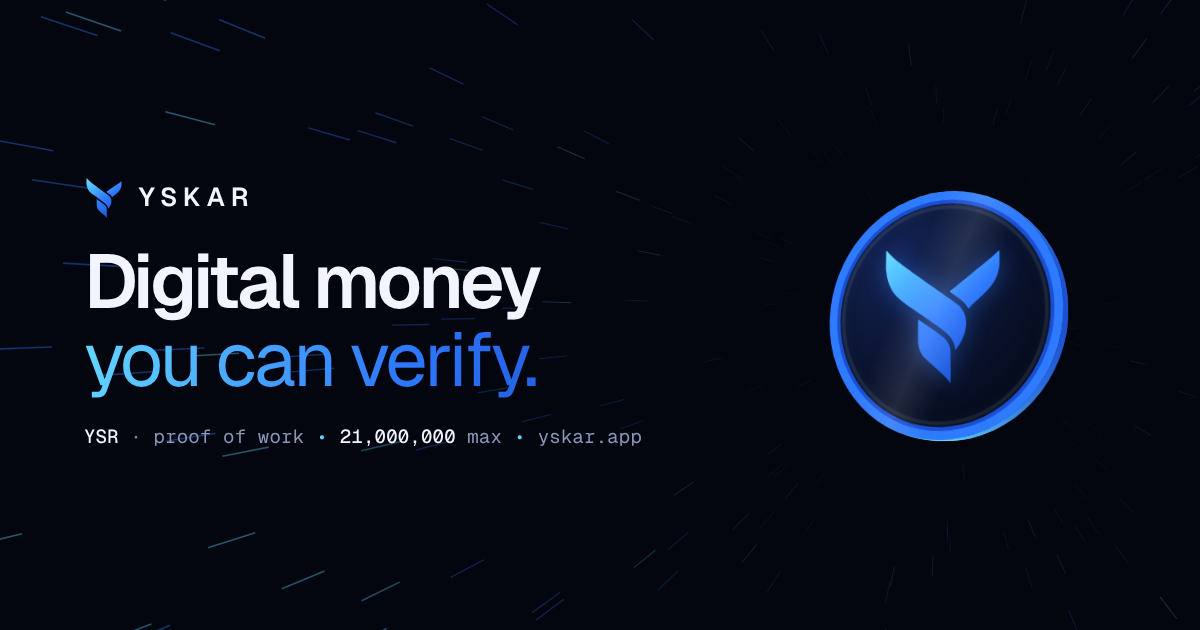
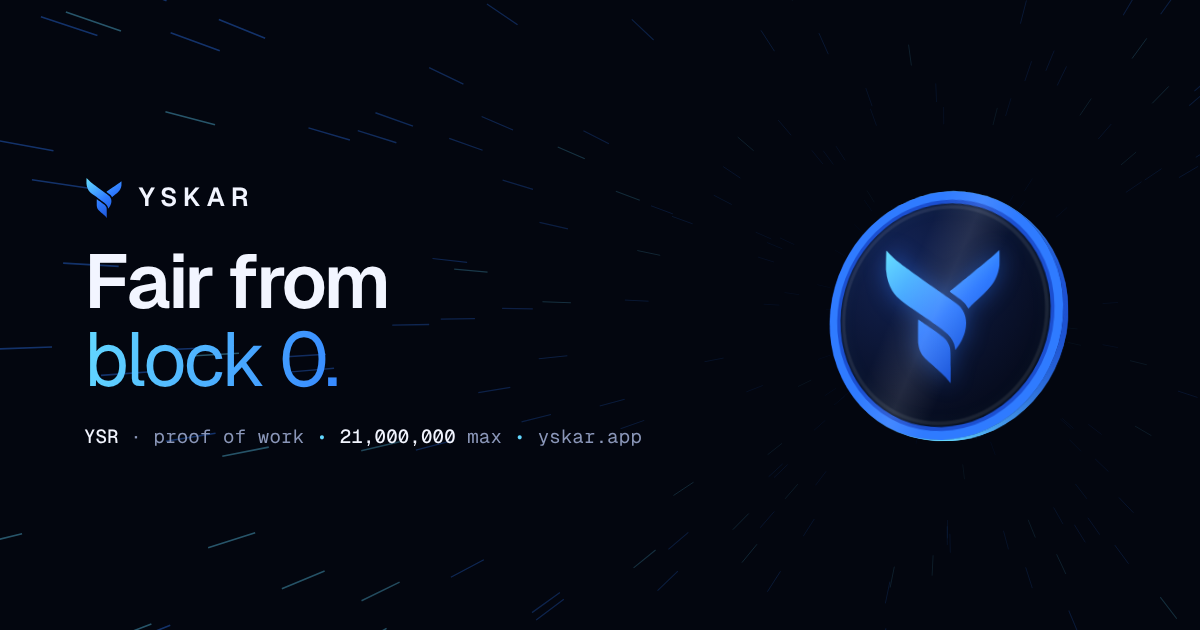
Website: Einstieg 'YSKAR – Fair von Block 0 an.'
Ueberschrift, Einleitung, Seitentitel, Beschreibung und Vorschaubild neu;
Ueberschrift etwas kleiner, damit sie die Muenze nicht beruehrt.

Changed region(s): [[0.0617, 0.3921, 0.4625, 0.6333]]

diff --git a/website/index.html b/website/index.html
@@ -3,35 +3,35 @@
 <head>
 <meta charset="utf-8">
 <meta name="viewport" content="width=device-width, initial-scale=1, viewport-fit=cover">
-<title>YSKAR – Digital money you can verify.</title>
-<meta name="description" content="YSKAR (YSR) is an independent cryptocurrency with a proof-of-work blockchain of its own. Send and keep YSR with 12 words. 21 million at most, nothing allocated in advance, every block open to check.">
+<title>YSKAR – Fair from block 0.</title>
+<meta name="description" content="YSKAR (YSR) is a cryptocurrency with a blockchain of its own. Nothing was handed out in advance, early YSR were burned to offset the head start. Mine with your phone or PC and check every block yourself.">
 <meta name="theme-color" content="#03060F">
 <meta property="og:type" content="website">
 <meta property="og:site_name" content="YSKAR">
 <meta property="og:title" content="YSKAR">
-<meta property="og:description" content="Digital money you can verify. An independent cryptocurrency with a proof-of-work blockchain of its own.">
+<meta property="og:description" content="Fair from block 0. A cryptocurrency with a blockchain of its own: nothing handed out in advance, early YSR burned to offset the head start.">
 <meta property="og:url" content="https://www.yskar.app/">
-<meta property="og:image" content="https://www.yskar.app/assets/img/og-yskar.png?v=6">
+<meta property="og:image" content="https://www.yskar.app/assets/img/og-yskar.png?v=7">
 <meta property="og:image:width" content="1200">
 <meta property="og:image:height" content="630">
-<meta property="og:image:alt" content="YSKAR – Digital money you can verify.">
+<meta property="og:image:alt" content="YSKAR – Fair from block 0.">
 <meta name="twitter:card" content="summary_large_image">
 <meta name="twitter:site" content="@yskar_official">
 <link rel="icon" href="/favicon.svg?v=4" type="image/svg+xml">
 <link rel="icon" href="/favicon.png?v=4" type="image/png" sizes="96x96">
 <link rel="apple-touch-icon" href="/assets/img/apple-touch-icon.png?v=3">
 <link rel="preload" href="/assets/fonts/geist-variable.woff2" as="font" type="font/woff2" crossorigin>
-<link rel="stylesheet" href="/assets/style.css?v=37">
+<link rel="stylesheet" href="/assets/style.css?v=38">
 <noscript><style>html.i18n-wartet body{visibility:visible}</style></noscript>
-<script src="/assets/i18n/en.js?v=37"></script>
-<script src="/assets/site.js?v=37" defer></script>
-<script src="/assets/motion.js?v=37" defer></script>
-<script src="/assets/pruefen.js?v=37" defer></script>
-<script src="/assets/bloecke.js?v=37" defer></script>
-<script src="/assets/adresse.js?v=37" defer></script>
-<script src="/assets/nutzen.js?v=37" defer></script>
+<script src="/assets/i18n/en.js?v=38"></script>
+<script src="/assets/site.js?v=38" defer></script>
+<script src="/assets/motion.js?v=38" defer></script>
+<script src="/assets/pruefen.js?v=38" defer></script>
+<script src="/assets/bloecke.js?v=38" defer></script>
+<script src="/assets/adresse.js?v=38" defer></script>
+<script src="/assets/nutzen.js?v=38" defer></script>
 <script src="/assets/wallet-muenzen.js?v=2" defer></script>
-<script src="/assets/v6.js?v=37" defer></script>
+<script src="/assets/v6.js?v=38" defer></script>
 </head>
 <body data-seite="start">
 
@@ -73,8 +73,8 @@
 <span class="chip"><span class="punkt"></span><span data-th="h2.chip">Mainnet live since <b>9 September 2026</b></span></span>
 <a class="chip v6" href="#v6"><span data-th="h2.chipV6"><b>V6</b> from block 10,000 · see what’s next</span> →</a>
 </div>
-<h1><span data-t="h2.titel1">Digital money</span><span class="lt grad" data-t="h2.titel2">you can verify.</span></h1>
-<p class="lead" data-t="h2.text">YSKAR is a currency with a blockchain of its own. Send YSR to anyone, keep them with nothing but 12 words, and check every block yourself, right in your browser. 21 million YSR at most, nothing allocated in advance.</p>
+<h1><span data-t="h2.titel1">YSKAR</span><span class="lt grad" data-t="h2.titel2">Fair from block 0.</span></h1>
+<p class="lead" data-t="h2.text">A cryptocurrency with a blockchain of its own. Nothing was handed out in advance, early YSR were even burned to offset the head start. Mine with your phone or PC and check every block yourself.</p>
 <div class="knopfreihe">
 <a class="knopf hell gross" href="#nutzen"><span data-t="h2.los">Start using YSR</span> <span class="pfeil" aria-hidden="true">→</span></a>
 <a class="knopf rand gross" href="#ablauf" data-t="nav.ablauf">How it works</a>

diff --git a/website/assets/i18n/de.js b/website/assets/i18n/de.js
@@ -412,8 +412,8 @@
   "wpseite.drucken": "Drucken / als PDF speichern",
   "wpseite.toc": "Inhalt",
   "recht.nurDeutsch": "Diese Seite ist nach deutschem Recht auf Deutsch.",
-  "seite.start.titel": "YSKAR – Digitales Geld, das du selbst prüfen kannst.",
-  "seite.start.beschreibung": "YSKAR (YSR) ist eine unabhängige Kryptowährung mit eigener Proof-of-Work-Blockchain. YSR senden und mit 12 Wörtern aufbewahren. Höchstens 21 Millionen, nichts vorab verteilt, jeder Block prüfbar.",
+  "seite.start.titel": "YSKAR – Fair von Block 0 an.",
+  "seite.start.beschreibung": "YSKAR (YSR) ist eine Kryptowährung mit eigener Blockchain. Nichts wurde vorab verteilt, frühe YSR wurden verbrannt, um den Vorsprung auszugleichen. Mine mit Handy oder PC und prüfe jeden Block selbst.",
   "seite.anleitungen.titel": "Anleitungen – YSKAR",
   "seite.anleitungen.beschreibung": "Schritt für Schritt: Mining mit der Telegram Mini App, der Android-App oder dem PC-Miner, Wallet erstellen und einen Fullnode betreiben.",
   "seite.whitepaper.titel": "Whitepaper – YSKAR",
@@ -427,9 +427,9 @@
   "nav.los": "YSR nutzen",
   "h2.chip": "Mainnet live seit <b>9. September 2026</b>",
   "h2.chipV6": "<b>V6</b> ab Block 10.000 · was als Nächstes kommt",
-  "h2.titel1": "Digitales Geld,",
-  "h2.titel2": "das du selbst prüfen kannst.",
-  "h2.text": "YSKAR ist eine Währung mit eigener Blockchain. Sende YSR an jeden, bewahre sie mit nichts als 12 Wörtern auf und prüfe jeden Block selbst, direkt im Browser. Höchstens 21 Millionen YSR, nichts vorab verteilt.",
+  "h2.titel1": "YSKAR",
+  "h2.titel2": "Fair von Block 0 an.",
+  "h2.text": "Eine Kryptowährung mit eigener Blockchain. Nichts wurde vorab verteilt, frühe YSR wurden sogar verbrannt, um den Vorsprung auszugleichen. Mine mit Handy oder PC und prüfe jeden Block selbst.",
   "h2.los": "YSR nutzen",
   "band.miner": "Aktive Miner (gemeldet)",
   "band.knoten": "Meldende Knoten",

diff --git a/website/mining.html b/website/mining.html
@@ -11,23 +11,23 @@
 <meta property="og:title" content="Mining – YSKAR">
 <meta property="og:description" content="Mine YSR with the Telegram Mini App, the Android app, Node Core or the PC miner. With a mining calculator based on live chain data and the active pools.">
 <meta property="og:url" content="https://www.yskar.app/mining">
-<meta property="og:image" content="https://www.yskar.app/assets/img/og-yskar.png?v=6">
+<meta property="og:image" content="https://www.yskar.app/assets/img/og-yskar.png?v=7">
 <meta property="og:image:width" content="1200">
 <meta property="og:image:height" content="630">
-<meta property="og:image:alt" content="YSKAR – Digital money you can verify.">
+<meta property="og:image:alt" content="YSKAR – Fair from block 0.">
 <meta name="twitter:card" content="summary_large_image">
 <meta name="twitter:site" content="@yskar_official">
 <link rel="icon" href="/favicon.svg?v=4" type="image/svg+xml">
 <link rel="icon" href="/favicon.png?v=4" type="image/png" sizes="96x96">
 <link rel="apple-touch-icon" href="/assets/img/apple-touch-icon.png?v=3">
 <link rel="preload" href="/assets/fonts/geist-variable.woff2" as="font" type="font/woff2" crossorigin>
-<link rel="stylesheet" href="/assets/style.css?v=37">
+<link rel="stylesheet" href="/assets/style.css?v=38">
 <noscript><style>html.i18n-wartet body{visibility:visible}</style></noscript>
-<script src="/assets/i18n/en.js?v=37"></script>
-<script src="/assets/site.js?v=37" defer></script>
-<script src="/assets/motion.js?v=37" defer></script>
-<script src="/assets/pools.js?v=37" defer></script>
-<script src="/assets/rechner.js?v=37" defer></script>
+<script src="/assets/i18n/en.js?v=38"></script>
+<script src="/assets/site.js?v=38" defer></script>
+<script src="/assets/motion.js?v=38" defer></script>
+<script src="/assets/pools.js?v=38" defer></script>
+<script src="/assets/rechner.js?v=38" defer></script>
 </head>
 <body data-seite="mining">
 

diff --git a/website/assets/i18n/en.js b/website/assets/i18n/en.js
@@ -412,8 +412,8 @@
   "wpseite.drucken": "Print / save as PDF",
   "wpseite.toc": "Contents",
   "recht.nurDeutsch": "This page is in German, as required by German law.",
-  "seite.start.titel": "YSKAR – Digital money you can verify.",
-  "seite.start.beschreibung": "YSKAR (YSR) is an independent cryptocurrency with a proof-of-work blockchain of its own. Send and keep YSR with 12 words. 21 million at most, nothing allocated in advance, every block open to check.",
+  "seite.start.titel": "YSKAR – Fair from block 0.",
+  "seite.start.beschreibung": "YSKAR (YSR) is a cryptocurrency with a blockchain of its own. Nothing was handed out in advance, early YSR were burned to offset the head start. Mine with your phone or PC and check every block yourself.",
   "seite.anleitungen.titel": "Guides – YSKAR",
   "seite.anleitungen.beschreibung": "Step by step: mining with the Telegram Mini App, the Android app or the PC miner, creating a wallet and running a full node.",
   "seite.whitepaper.titel": "Whitepaper – YSKAR",
@@ -427,9 +427,9 @@
   "nav.los": "Use YSR",
   "h2.chip": "Mainnet live since <b>9 September 2026</b>",
   "h2.chipV6": "<b>V6</b> from block 10,000 · see what’s next",
-  "h2.titel1": "Digital money",
-  "h2.titel2": "you can verify.",
-  "h2.text": "YSKAR is a currency with a blockchain of its own. Send YSR to anyone, keep them with nothing but 12 words, and check every block yourself, right in your browser. 21 million YSR at most, nothing allocated in advance.",
+  "h2.titel1": "YSKAR",
+  "h2.titel2": "Fair from block 0.",
+  "h2.text": "A cryptocurrency with a blockchain of its own. Nothing was handed out in advance, early YSR were even burned to offset the head start. Mine with your phone or PC and check every block yourself.",
   "h2.los": "Start using YSR",
   "band.miner": "Active miners (reported)",
   "band.knoten": "Reporting nodes",

diff --git a/website/protokoll.html b/website/protokoll.html
@@ -11,20 +11,20 @@
 <meta property="og:title" content="Protocol – YSKAR">
 <meta property="og:description" content="The YSKAR protocol in detail: coin, chain and wallets in one datasheet, the 136-byte block header, the transfer format and block 0.">
 <meta property="og:url" content="https://www.yskar.app/protokoll">
-<meta property="og:image" content="https://www.yskar.app/assets/img/og-yskar.png?v=6">
+<meta property="og:image" content="https://www.yskar.app/assets/img/og-yskar.png?v=7">
 <meta property="og:image:width" content="1200">
 <meta property="og:image:height" content="630">
-<meta property="og:image:alt" content="YSKAR – Digital money you can verify.">
+<meta property="og:image:alt" content="YSKAR – Fair from block 0.">
 <meta name="twitter:card" content="summary_large_image">
 <meta name="twitter:site" content="@yskar_official">
 <link rel="icon" href="/favicon.svg?v=4" type="image/svg+xml">
 <link rel="icon" href="/favicon.png?v=4" type="image/png" sizes="96x96">
 <link rel="apple-touch-icon" href="/assets/img/apple-touch-icon.png?v=3">
 <link rel="preload" href="/assets/fonts/geist-variable.woff2" as="font" type="font/woff2" crossorigin>
-<link rel="stylesheet" href="/assets/style.css?v=37">
+<link rel="stylesheet" href="/assets/style.css?v=38">
 <noscript><style>html.i18n-wartet body{visibility:visible}</style></noscript>
-<script src="/assets/i18n/en.js?v=37"></script>
-<script src="/assets/site.js?v=37" defer></script>
+<script src="/assets/i18n/en.js?v=38"></script>
+<script src="/assets/site.js?v=38" defer></script>
 </head>
 <body data-seite="protokoll">
 

diff --git a/website/whitepaper.html b/website/whitepaper.html
@@ -11,20 +11,20 @@
 <meta property="og:title" content="Whitepaper – YSKAR">
 <meta property="og:description" content="How YSKAR works: blocks, transactions, proof of work, difficulty, issuance, wallets and pool mining.">
 <meta property="og:url" content="https://www.yskar.app/whitepaper">
-<meta property="og:image" content="https://www.yskar.app/assets/img/og-yskar.png?v=6">
+<meta property="og:image" content="https://www.yskar.app/assets/img/og-yskar.png?v=7">
 <meta property="og:image:width" content="1200">
 <meta property="og:image:height" content="630">
-<meta property="og:image:alt" content="YSKAR – Digital money you can verify.">
+<meta property="og:image:alt" content="YSKAR – Fair from block 0.">
 <meta name="twitter:card" content="summary_large_image">
 <meta name="twitter:site" content="@yskar_official">
 <link rel="icon" href="/favicon.svg?v=4" type="image/svg+xml">
 <link rel="icon" href="/favicon.png?v=4" type="image/png" sizes="96x96">
 <link rel="apple-touch-icon" href="/assets/img/apple-touch-icon.png?v=3">
 <link rel="preload" href="/assets/fonts/geist-variable.woff2" as="font" type="font/woff2" crossorigin>
-<link rel="stylesheet" href="/assets/style.css?v=37">
+<link rel="stylesheet" href="/assets/style.css?v=38">
 <noscript><style>html.i18n-wartet body{visibility:visible}</style></noscript>
-<script src="/assets/i18n/en.js?v=37"></script>
-<script src="/assets/site.js?v=37" defer></script>
+<script src="/assets/i18n/en.js?v=38"></script>
+<script src="/assets/site.js?v=38" defer></script>
 </head>
 <body data-seite="whitepaper">
 

diff --git a/website/anleitungen.html b/website/anleitungen.html
@@ -11,20 +11,20 @@
 <meta property="og:title" content="Guides – YSKAR">
 <meta property="og:description" content="Step by step: wallet, mining on phone and PC, Node Core, your own full node and your own pool.">
 <meta property="og:url" content="https://www.yskar.app/anleitungen">
-<meta property="og:image" content="https://www.yskar.app/assets/img/og-yskar.png?v=6">
+<meta property="og:image" content="https://www.yskar.app/assets/img/og-yskar.png?v=7">
 <meta property="og:image:width" content="1200">
 <meta property="og:image:height" content="630">
-<meta property="og:image:alt" content="YSKAR – Digital money you can verify.">
+<meta property="og:image:alt" content="YSKAR – Fair from block 0.">
 <meta name="twitter:card" content="summary_large_image">
 <meta name="twitter:site" content="@yskar_official">
 <link rel="icon" href="/favicon.svg?v=4" type="image/svg+xml">
 <link rel="icon" href="/favicon.png?v=4" type="image/png" sizes="96x96">
 <link rel="apple-touch-icon" href="/assets/img/apple-touch-icon.png?v=3">
 <link rel="preload" href="/assets/fonts/geist-variable.woff2" as="font" type="font/woff2" crossorigin>
-<link rel="stylesheet" href="/assets/style.css?v=37">
+<link rel="stylesheet" href="/assets/style.css?v=38">
 <noscript><style>html.i18n-wartet body{visibility:visible}</style></noscript>
-<script src="/assets/i18n/en.js?v=37"></script>
-<script src="/assets/site.js?v=37" defer></script>
+<script src="/assets/i18n/en.js?v=38"></script>
+<script src="/assets/site.js?v=38" defer></script>
 </head>
 <body data-seite="anleitungen">
 

diff --git a/website/datenschutz.html b/website/datenschutz.html
@@ -12,20 +12,20 @@
 <meta property="og:title" content="Privacy – YSKAR">
 <meta property="og:description" content="Privacy policy of yskar.app.">
 <meta property="og:url" content="https://www.yskar.app/datenschutz">
-<meta property="og:image" content="https://www.yskar.app/assets/img/og-yskar.png?v=6">
+<meta property="og:image" content="https://www.yskar.app/assets/img/og-yskar.png?v=7">
 <meta property="og:image:width" content="1200">
 <meta property="og:image:height" content="630">
-<meta property="og:image:alt" content="YSKAR – Digital money you can verify.">
+<meta property="og:image:alt" content="YSKAR – Fair from block 0.">
 <meta name="twitter:card" content="summary_large_image">
 <meta name="twitter:site" content="@yskar_official">
 <link rel="icon" href="/favicon.svg?v=4" type="image/svg+xml">
 <link rel="icon" href="/favicon.png?v=4" type="image/png" sizes="96x96">
 <link rel="apple-touch-icon" href="/assets/img/apple-touch-icon.png?v=3">
 <link rel="preload" href="/assets/fonts/geist-variable.woff2" as="font" type="font/woff2" crossorigin>
-<link rel="stylesheet" href="/assets/style.css?v=37">
+<link rel="stylesheet" href="/assets/style.css?v=38">
 <noscript><style>html.i18n-wartet body{visibility:visible}</style></noscript>
-<script src="/assets/i18n/en.js?v=37"></script>
-<script src="/assets/site.js?v=37" defer></script>
+<script src="/assets/i18n/en.js?v=38"></script>
+<script src="/assets/site.js?v=38" defer></script>
 </head>
 <body data-seite="datenschutz">
 

diff --git a/website/impressum.html b/website/impressum.html
@@ -12,20 +12,20 @@
 <meta property="og:title" content="Legal notice – YSKAR">
 <meta property="og:description" content="Legal notice of yskar.app.">
 <meta property="og:url" content="https://www.yskar.app/impressum">
-<meta property="og:image" content="https://www.yskar.app/assets/img/og-yskar.png?v=6">
+<meta property="og:image" content="https://www.yskar.app/assets/img/og-yskar.png?v=7">
 <meta property="og:image:width" content="1200">
 <meta property="og:image:height" content="630">
-<meta property="og:image:alt" content="YSKAR – Digital money you can verify.">
+<meta property="og:image:alt" content="YSKAR – Fair from block 0.">
 <meta name="twitter:card" content="summary_large_image">
 <meta name="twitter:site" content="@yskar_official">
 <link rel="icon" href="/favicon.svg?v=4" type="image/svg+xml">
 <link rel="icon" href="/favicon.png?v=4" type="image/png" sizes="96x96">
 <link rel="apple-touch-icon" href="/assets/img/apple-touch-icon.png?v=3">
 <link rel="preload" href="/assets/fonts/geist-variable.woff2" as="font" type="font/woff2" crossorigin>
-<link rel="stylesheet" href="/assets/style.css?v=37">
+<link rel="stylesheet" href="/assets/style.css?v=38">
 <noscript><style>html.i18n-wartet body{visibility:visible}</style></noscript>
-<script src="/assets/i18n/en.js?v=37"></script>
-<script src="/assets/site.js?v=37" defer></script>
+<script src="/assets/i18n/en.js?v=38"></script>
+<script src="/assets/site.js?v=38" defer></script>
 </head>
 <body data-seite="impressum">
 

diff --git a/website/assets/style.css b/website/assets/style.css
@@ -131,7 +131,7 @@ p{margin:0}
 a.chip{color:var(--mut)}
 a.chip:hover{border-color:color-mix(in srgb,var(--acc2) 50%,transparent);color:var(--fg)}
 .chip.v6 b{color:var(--acc2)}
-.held h1{font-size:clamp(46px,7vw,104px);line-height:.95;letter-spacing:-.045em;font-weight:600}
+.held h1{font-size:clamp(46px,6.2vw,96px);line-height:.95;letter-spacing:-.045em;font-weight:600}
 .held h1 .lt{display:block}
 .held .lead{font-size:clamp(17px,1.5vw,20px);line-height:1.55;color:var(--mut);max-width:540px}
 .scrollhinweis{position:absolute;left:50%;bottom:28px;transform:translateX(-50%);z-index:2;font-family:var(--mono);font-size:11px;letter-spacing:.2em;color:var(--mut);display:flex;flex-direction:column;align-items:center;gap:10px}
